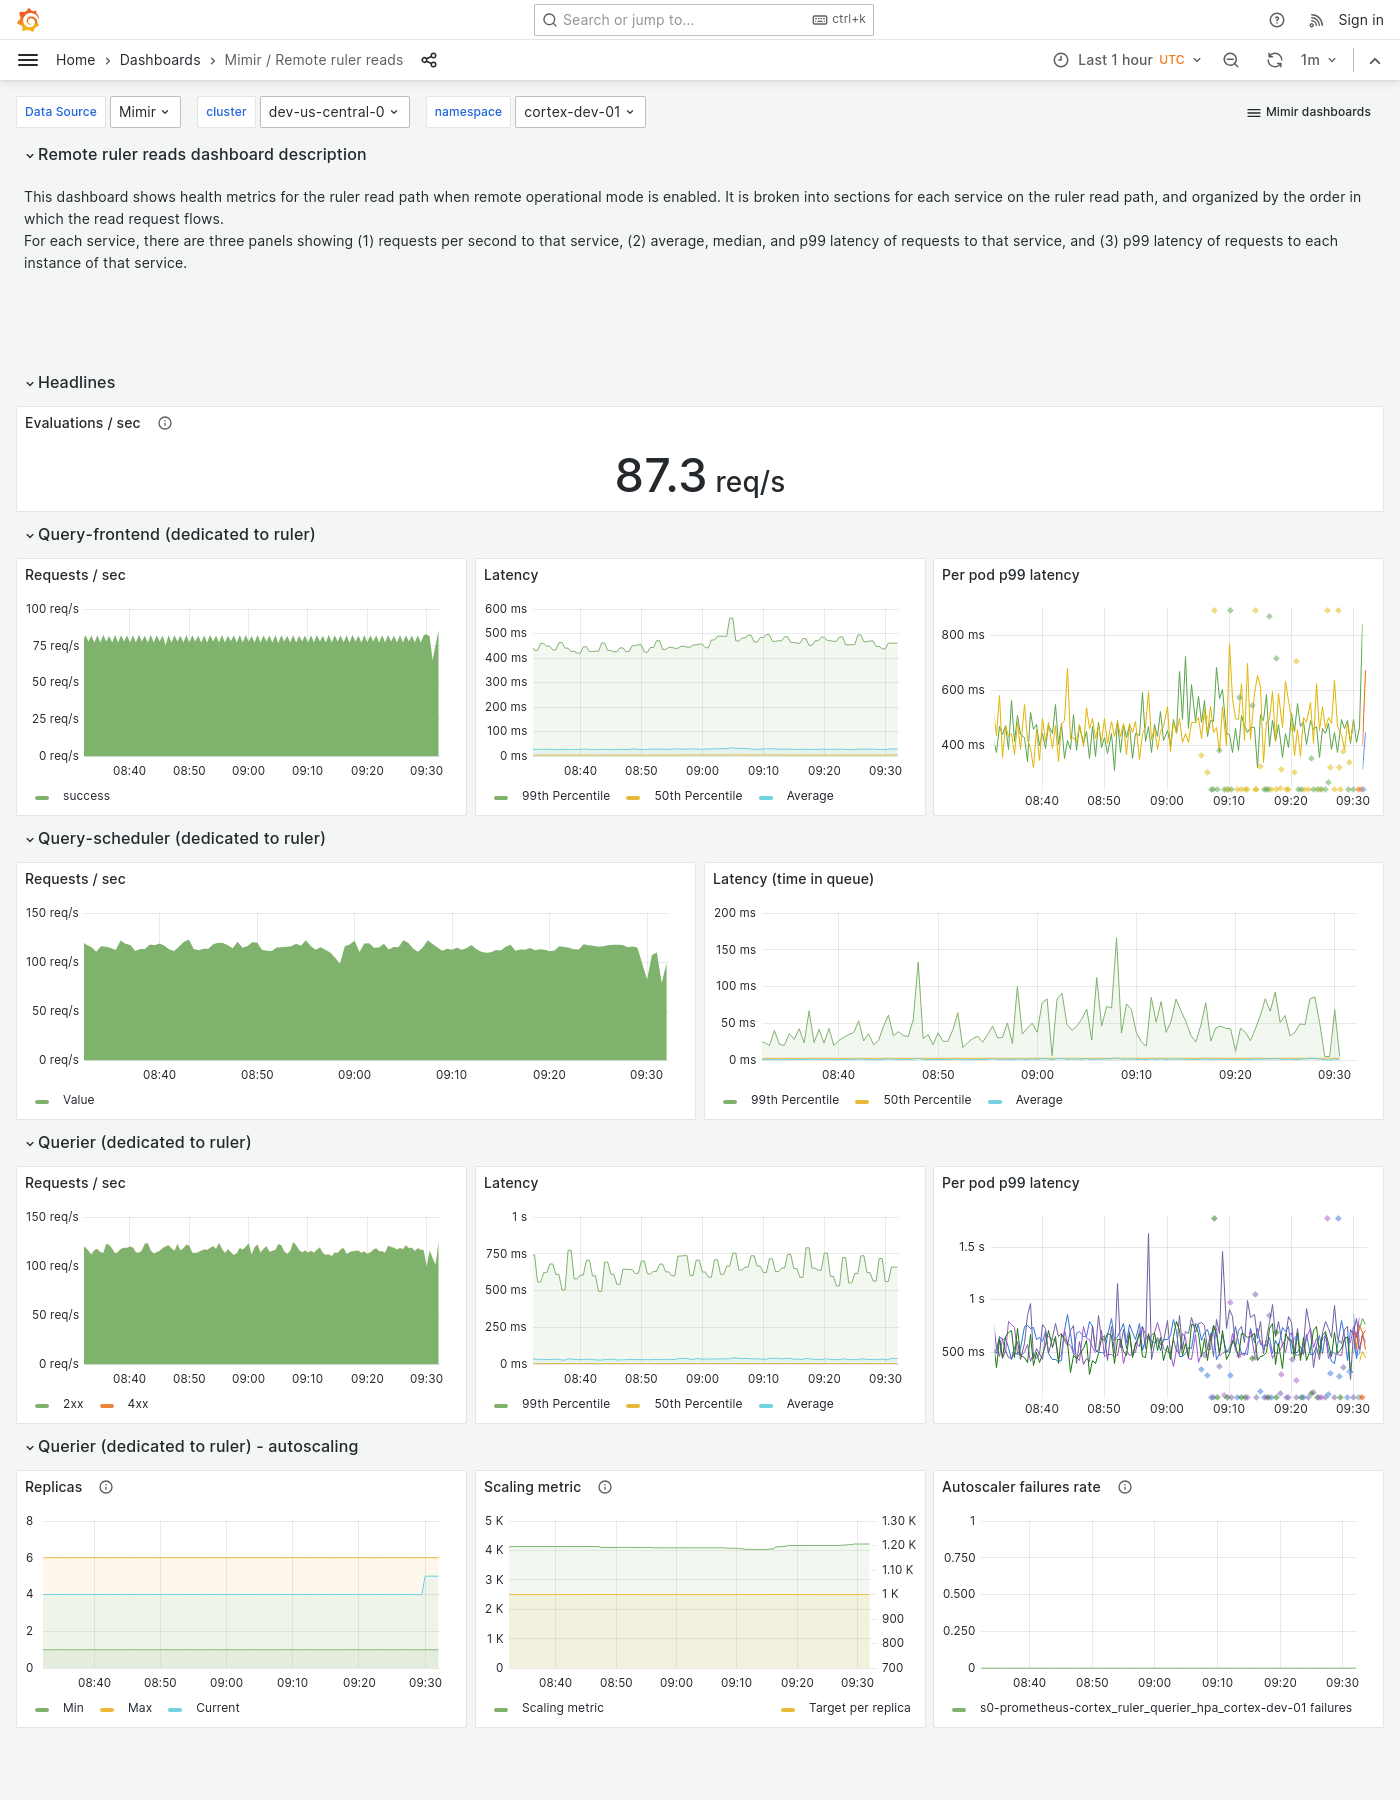
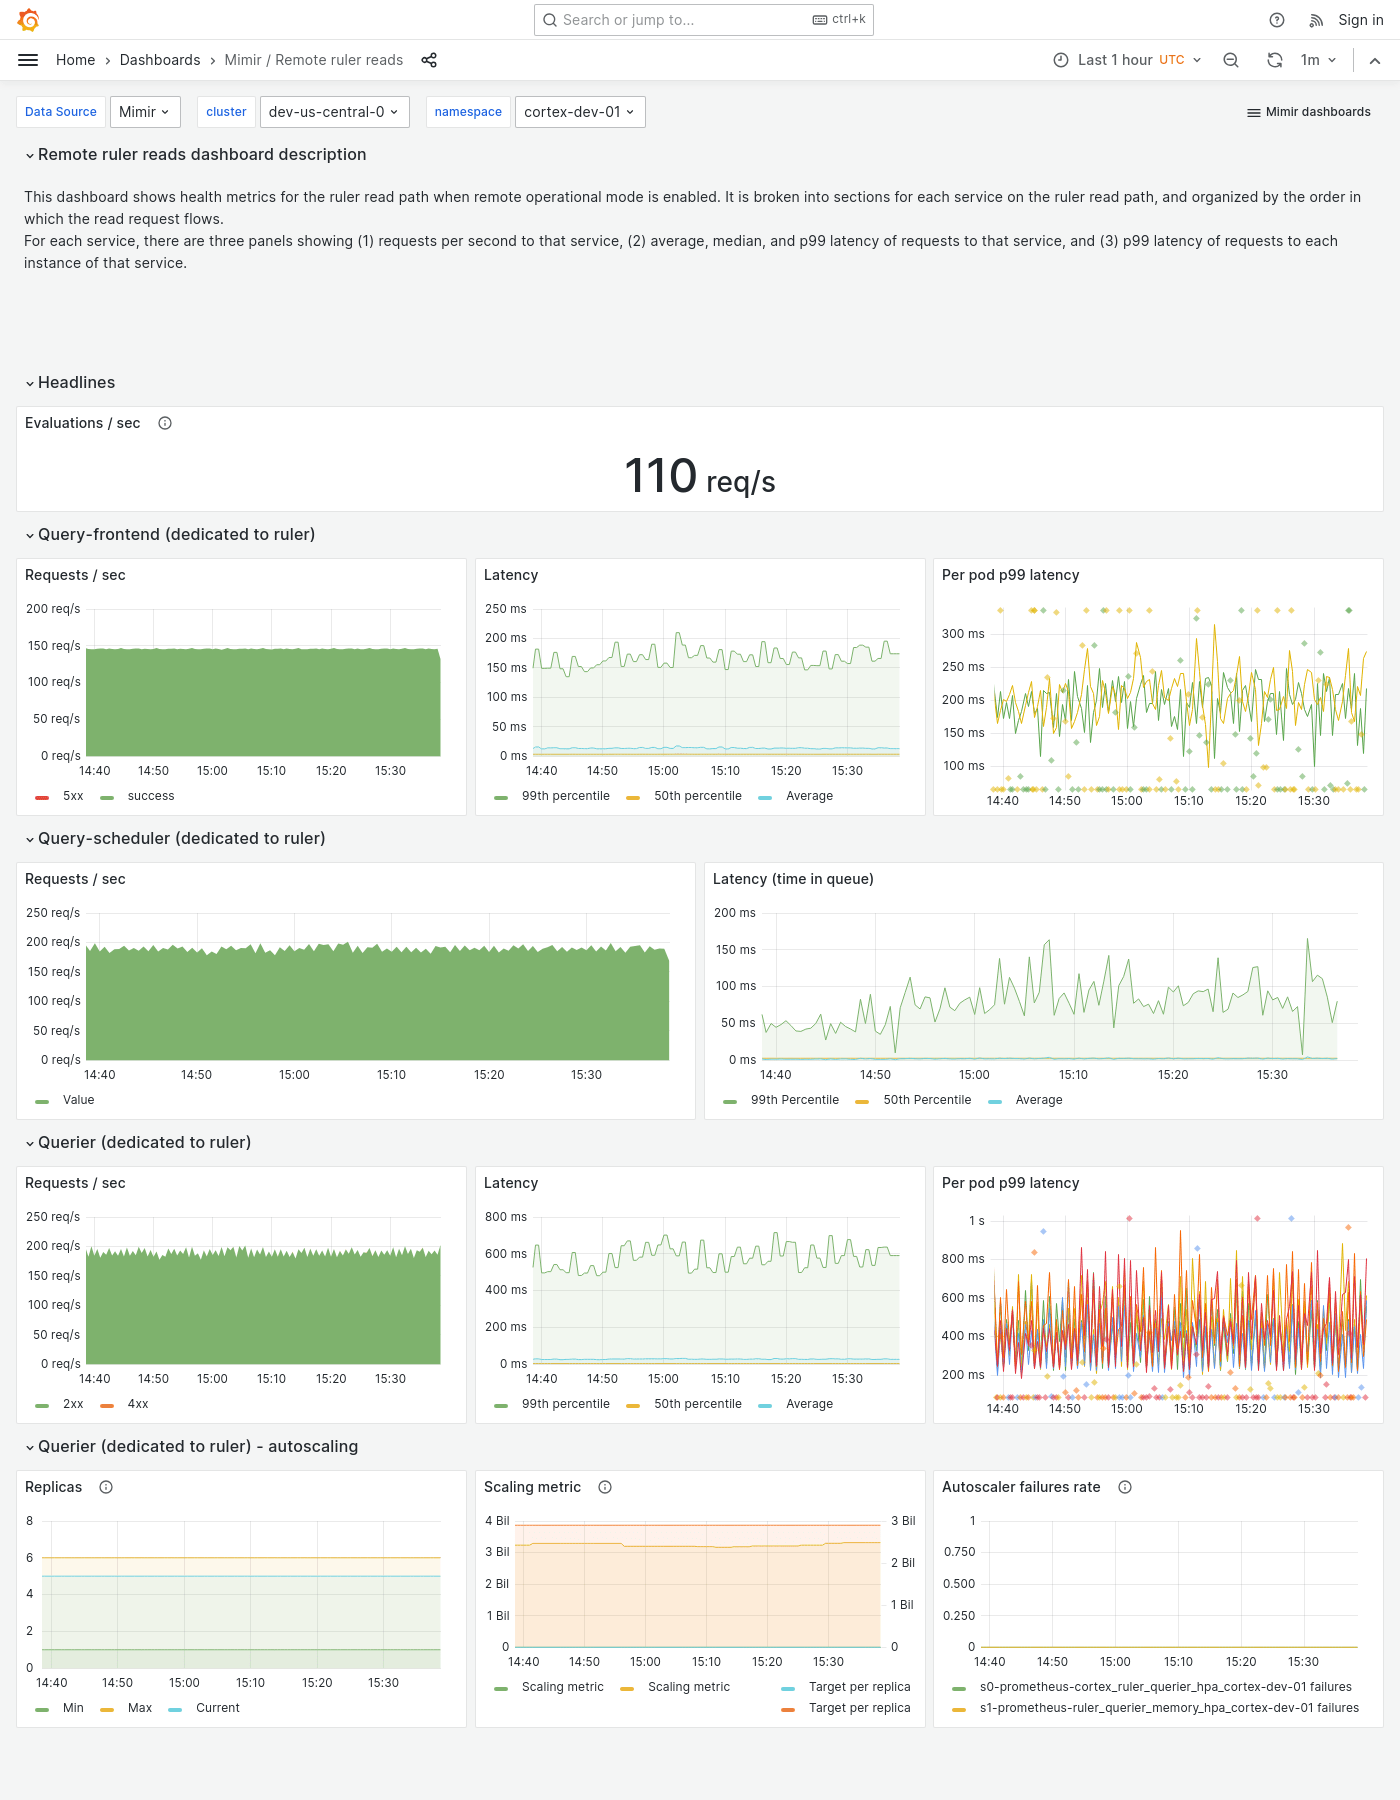
make mixin-screenshots for release-2.10 (#5863)
* make mixin-screenshots for release-2.10

These are the latest screenshots.

* make screenshots for specific user (load-generator-1)

---------

diff --git a/operations/mimir-mixin-tools/screenshots/app.js b/operations/mimir-mixin-tools/screenshots/app.js
@@ -79,6 +79,7 @@ async function takeScreenshot(browser, dashboard) {
         "var-datasource": "Mimir",
         "var-cluster": process.env.CLUSTER,
         "var-namespace": dashboard.name.includes("alertmanager") ? process.env.ALERTMANAGER_NAMESPACE : process.env.MIMIR_NAMESPACE,
+        "var-user": process.env.MIMIR_USER,
     })
 
     // Load the dashboard page.
@@ -113,7 +114,7 @@ async function takeScreenshot(browser, dashboard) {
 
 async function run() {
     // Ensure required environment variables have been set.
-    ["CLUSTER", "MIMIR_NAMESPACE", "ALERTMANAGER_NAMESPACE"].forEach((name) => {
+    ["CLUSTER", "MIMIR_NAMESPACE", "ALERTMANAGER_NAMESPACE", "MIMIR_USER"].forEach((name) => {
         if (!process.env[name]) {
             throw new Error(`The ${name} environment variable is missing`)
         }
